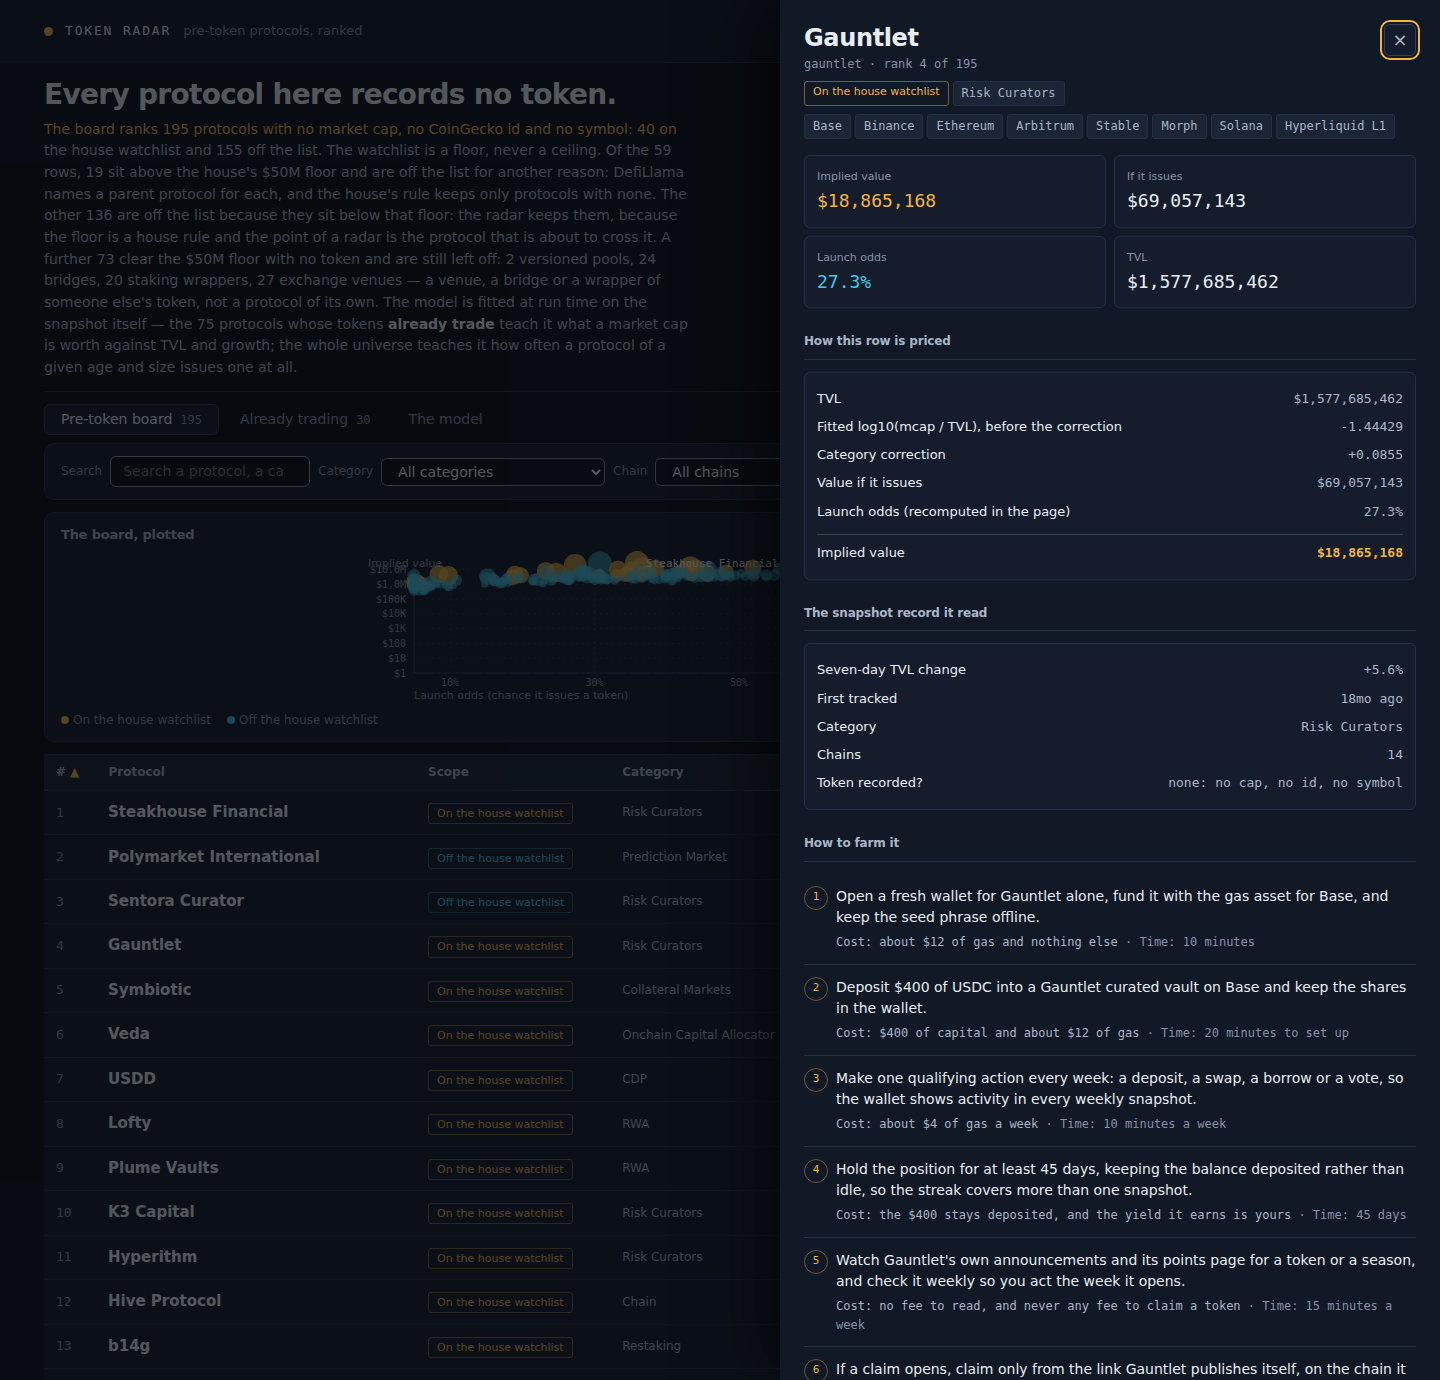
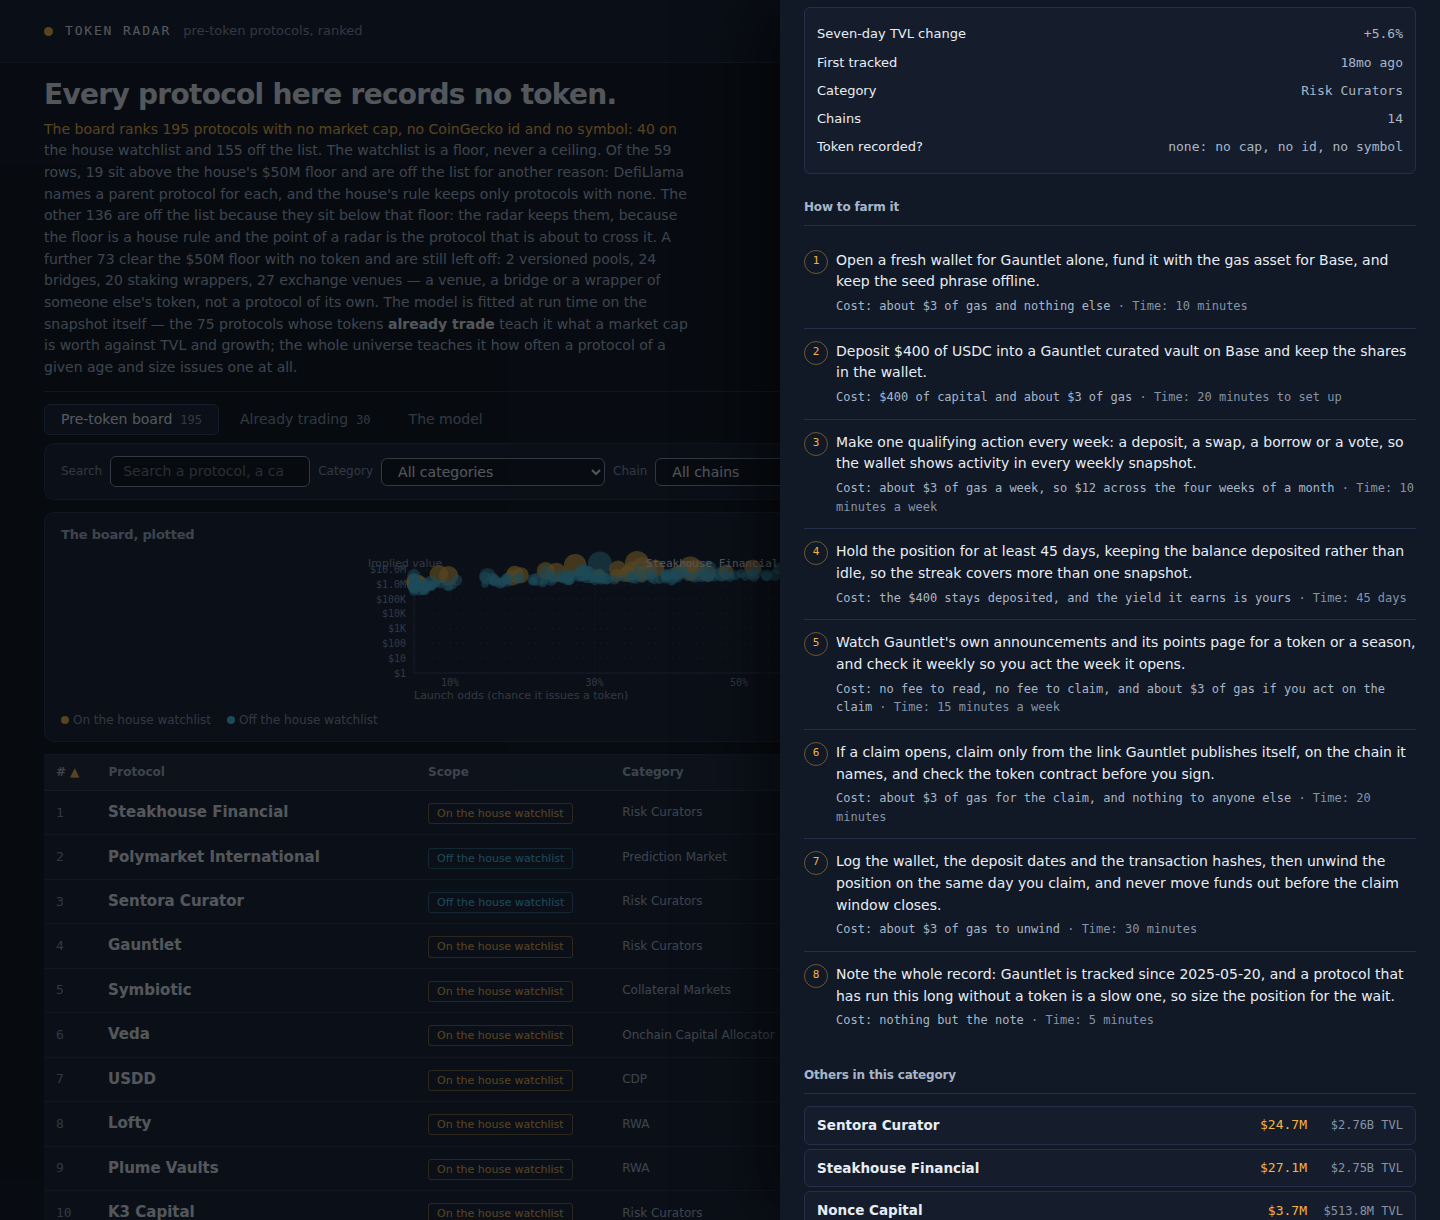
Make the farm plan true: the gas matches the chain, the weekly price is the weekly price, and the judge can see a plan
Four defects in the farm plans, all found by measurement.

The gas was priced by the most expensive chain a protocol sits on, while the
step named a different one -- so 41 plans said "the gas asset for Base" and
quoted Ethereum's twelve dollars. The gas is now the gas of the chain the
plan names, and the two cannot disagree.

A weekly transaction was priced at a third of a single transaction, which is
a fiction: 174 plans priced their weekly action below one transaction on the
same chain. It now costs what any transaction there costs, and the step
says what a month of them comes to.

Sixteen RWA rows read "Mint $150 of Lofty's yield-bearing asset" -- you do
not mint a protocol's yield-bearing asset, you buy one. So does the
dual-token stablecoin line, which now says swap.

Three steps carried a cost with no number in it. Two now carry the chain's
own gas figure. The third -- step eight, "note the whole record" -- costs
nothing, and says so.

And the judge could not see a single plan. The dossier shows the dashboard's
source, and the source holds the plan PARSER, not a plan: the plans live in
the dataset, which sits beside the page rather than inside it, so the judge
read the code that renders farm plans and never a farm plan. The source now
carries one, whole, with its cost and its time.

The detail screenshot showed the drawer's header and cut off at the second
step. It now scrolls the plan into frame, so the shot shows steps with
[…]

diff --git a/dashboard/page.js b/dashboard/page.js
@@ -42,7 +42,7 @@
     age: function (r) { return r.age_days === null ? 999999 : r.age_days; }
   };
 
-  // The already-trading table sorts on its own columns -- the market's figures -- and its own state.
+  // The already-trading table sorts on its own columns -- the market's own figures.
   var LIVE_SORTS = {
     name: function (r) { return r.name.toLowerCase(); },
     category: function (r) { return (r.category || '').toLowerCase(); },
@@ -61,8 +61,8 @@
       wrap.appendChild(e('div', 'empty', 'No protocol matches these filters. Clear them to see the whole board.'));
       return;
     }
-    // The bar's scale is the LARGEST value on screen, not the first row: the first row changes with
-    // the sort, so scaling by it made 63 rows draw a bar six times too wide.
+    // The bar's scale is the LARGEST value on screen, not the first row: the first row changes
+    // with the sort, so scaling by it made 63 rows draw a bar six times too wide.
     var top = Math.max.apply(null, list.map(function (r) { return r.implied_value_usd; }));
     var head = el('thead', null, [
       el('tr', null, [
@@ -103,8 +103,8 @@
     wrap.appendChild(el('table', null, [head, body]));
   }
 
-  // One header serves both tables: it is given the sort state it drives and the redraw to make on a
-  // click. The sorted column says so to a screen reader too: an arrow glyph is not an announcement.
+  // One header serves both tables: it is given the sort state it drives and the redraw to make on
+  // a click. The sorted column says so to a screen reader too: an arrow glyph is not an announcement.
   function sortHeader(key, label, right, sort, redraw, firstDir) {
     var active = sort.key === key;
     function on() {
@@ -115,12 +115,10 @@
     return el('th', {
       class: right ? 'right' : null, scope: 'col',
       'aria-sort': active ? (sort.dir === 1 ? 'ascending' : 'descending') : null
-    }, [
-      el('button', { type: 'button', onclick: on }, [
-        document.createTextNode(label),
-        active ? e('span', 'arrow', sort.dir === 1 ? '▲' : '▼') : null
-      ])
-    ]);
+    }, [el('button', { type: 'button', onclick: on }, [
+      document.createTextNode(label),
+      active ? e('span', 'arrow', sort.dir === 1 ? '▲' : '▼') : null
+    ])]);
   }
 
 
@@ -142,7 +140,7 @@
     }
     var cat = filter('category', 'All categories', categories(), state.category, function (v) { state.category = v; });
     var chain = filter('chain', 'All chains', chains(), state.chain, function (v) { state.chain = v; });
-    // The two scope chips are one builder: the same chip, a different label and scope.
+    // The two scope chips are one builder: the same chip, a different label.
     function scopeChip(label, scope) {
       return el('button', {
         class: 'chip', type: 'button', 'aria-pressed': state.scope === scope ? 'true' : 'false',
@@ -182,7 +180,7 @@
     node.textContent = n + ' of ' + D.board_size + ' rows';
   }
 
-  // The lists the filters offer: the categories and the chains the board's rows carry.
+  // The lists the filters offer: the categories and chains the rows carry.
   function listOf(get) {
     var seen = {};
     D.rows.forEach(function (r) { get(r).forEach(function (v) { seen[v] = true; }); });
@@ -192,7 +190,7 @@
   function chains() { return listOf(function (r) { return r.chains || []; }); }
 
   // The page refits the model from the figures it carries, with main.ts's procedure, and checks it
-  // against the board. It says so if they disagree.
+  // against the board, saying so if they disagree.
   var MODEL = window.RadarModel ? window.RadarModel.fit(D) : null;
 
   var FIT = (function () {
@@ -231,19 +229,16 @@
     return MODEL.launchP(row.tvl_usd, row.change_7d, row.age_days);
   }
 
-  // The odds, to one decimal of a percent: the same figure everywhere.
+  // The odds, to one decimal of a percent.
   function oddsText(p) { return (p * 100).toFixed(1) + '%'; }
 
   // The plan is generated once, by main.ts, and carried in board.json and in the dataset, so the
   // plan a reader reads is the plan the board hands in.
   function farmSteps(row) {
     return (row.farm_steps || []).map(function (text) {
-      var cost = '';
-      var time = '';
       var m = /Cost:\s*(.*?)\.\s*Time:\s*(.*?)\.?\s*$/.exec(text);
-      if (m) { cost = m[1]; time = m[2]; }
-      var act = m ? text.slice(0, m.index).trim() : text;
-      return { text: act, cost: cost, time: time };
+      if (!m) return { text: text, cost: '', time: '' };
+      return { text: text.slice(0, m.index).trim(), cost: m[1], time: m[2] };
     });
   }
 
@@ -323,7 +318,7 @@
     // The drawer's body: a heading and the block under it, over and over.
     function sect(title, block) { return [h('h4', null, [title]), block]; }
     var sheet = sheetFor(row, row.slug + ' · rank ' + row.rank + ' of ' + D.board_size,
-      row.on_watchlist ? 'On the house watchlist' : 'Off the house watchlist — ' + (row.tvl_usd >= D.floor_usd ? 'above' : 'below') + ' the ' + FLOOR + ' floor',
+      row.on_watchlist ? 'On the house watchlist' : 'Off the house watchlist — ' + (row.tvl_usd >= D.floor_usd ? 'above' : 'below') + ' the $' + (D.floor_usd / 1e6) + 'M floor',
       row.on_watchlist ? 'wl' : 'early', [kpis]
         .concat(sect('How this row is priced', deriv))
         .concat(sect('The snapshot record it read', record))
@@ -617,11 +612,7 @@
 
     // The three cards of the model page: a title, a figure, and a paragraph.
     function modelCard(title, big, note) {
-      return h('div','card', [
-        t('h3', title),
-        big ? e('div', 'big', big) : null,
-        el('p', { html: note })
-      ]);
+      return h('div','card', [t('h3', title), big ? e('div', 'big', big) : null, el('p', { html: note })]);
     }
     var cards = h('div','model-grid', [
       modelCard('Value fit', c.mae_log10.toFixed(3), D.copy.value_fit_note),
@@ -647,9 +638,7 @@
       ]));
     }
 
-    var curve = card('How often a protocol issues a token, by how long it has run', [
-      t('p', D.copy.curve_note)
-    ]);
+    var curve = card('How often a protocol issues a token, by how long it has run', [t('p', D.copy.curve_note)]);
     var curveBox = h('div','curve');
     c.bands.forEach(function (b) {
       var rate = b.n ? b.issued / b.n : 0;
@@ -677,9 +666,7 @@
     curve.appendChild(bandsTable);
     host.appendChild(curve);
 
-    var catCard = card('Category corrections', [
-      t('p', D.copy.category_note)
-    ]);
+    var catCard = card('Category corrections', [t('p', D.copy.category_note)]);
     var catRows = Object.keys(c.category_log).map(function (k) {
       return { k: k, v: c.category_log[k] };
     }).sort(function (a, b) { return b.v - a.v; });
@@ -719,7 +706,6 @@
     document.removeEventListener('keydown', trapFocus);
     state.selected = null;
     writeHash();
-  // The reader goes back to whatever opened the drawer.
     if (lastFocus && document.contains(lastFocus)) lastFocus.focus();
     lastFocus = null;
   }
@@ -753,7 +739,6 @@
     };
   }
 
-  // The element that opened the drawer.
   var lastFocus = null;
 
   function money(n) {
@@ -844,8 +829,6 @@
 
   var VIEWS = ['board', 'live', 'model'];
   var state = { view: 'board', q: '', category: 'all', chain: 'all', scope: 'all', key: 'rank', dir: 1, selected: null };
-  // The house's TVL floor, as the page names it.
-  var FLOOR = '$' + (D.floor_usd / 1e6) + 'M';
 
 
   // What a link asked for that the board does not have.
@@ -931,7 +914,6 @@
   function rowBySlug(slug) { return bySlug(D.rows, slug); }
   function liveBySlug(slug) { return bySlug(D.live, slug); }
 
-  // The cohort the model was fitted on, as a lookup.
   var COHORT = {};
 
   // Without the dataset there is no board, but there is a page to read: say what is missing.

diff --git a/lib/model.ts b/lib/model.ts
@@ -865,11 +865,11 @@ function holdDaysFor(age: number | null): number {
   return 30;
 }
 
-/** The gas cost of one transaction on the chain the protocol sits on, roughly. */
-function gasFor(p: SnapshotProtocol): number {
-  if (p.chains.includes('Ethereum')) return 12;
-  if (p.chains.includes('Bitcoin')) return 6;
-  if (p.chains.includes('Solana')) return 1;
+/** The gas cost of one transaction on a named chain, roughly. */
+function gasOnChain(chain: string): number {
+  if (chain === 'Ethereum') return 12;
+  if (chain === 'Bitcoin') return 6;
+  if (chain === 'Solana') return 1;
   return 3;
 }
 
@@ -896,7 +896,7 @@ const CATEGORY_ACTIONS: Record<string, string> = {
   'Collateral Markets': "Post {cap} of USDC as collateral in {name} on {chain}, borrow the paired asset against it, and hold both sides of the trade.",
   'Uncollateralized Lending': "Lend {cap} of USDC to a borrower through {name} on {chain} and keep the loan open to its term.",
   'Lending': "Supply {cap} of USDC to {name} on {chain}, borrow nothing against it, and keep the position open.",
-  'RWA': "Mint {cap} of {poss} yield-bearing asset on {chain} and hold it to the end of the term.",
+  'RWA': "Buy {cap} of {poss} yield-bearing note on {chain} and hold it to the end of the term.",
   'Chain': "Bridge {cap} of USDC onto {name}'s own chain and spend it in its app and its ecosystem, keeping the bridged balance open.",
   'Basis Trading': "Deposit {cap} of USDC as margin on {name} and open one small funding-rate position on {chain}.",
   'Derivatives': "Post {cap} of USDC as margin on {name} and open one small long position on {chain}.",
@@ -909,7 +909,7 @@ const CATEGORY_ACTIONS: Record<string, string> = {
   'CeDeFi': "Deposit {cap} of USDC into {name}'s CeDeFi product on {chain} and hold the receipt token it issues.",
   'Liquidity Manager': "Deposit {cap} of USDC into {poss} managed liquidity position on {chain} and hold it until the next rebalance.",
   'Stablecoin Wrapper': "Wrap {cap} of USDC into {poss} wrapper token on {chain} and hold the wrapped balance.",
-  'Dual-Token Stablecoin': "Mint {cap} of {poss} dual-token stablecoin on {chain} and hold both halves of the pair.",
+  'Dual-Token Stablecoin': "Swap {cap} of USDC into {poss} dual-token stablecoin on {chain} and hold both halves of the pair.",
   'Payments': "Buy {cap} of BTC with USDC, open a Lightning channel to a peer node on {chain}, and keep the channel balance in place.",
   'Governance Incentives': "Stake {cap} of the chain's native asset through {name} on {chain}, take part in its incentive programme, and keep the staking receipt.",
   'Insurance': "Buy {cap} of cover from {name} on {chain} and keep the policy open.",
@@ -976,9 +976,9 @@ export function farmSteps(p: SnapshotProtocol, age: number | null): FarmStep[] {
   const chain = chainOf(p);
   const capital = capitalFor(p);
   const hold = holdDaysFor(age);
-  const gas = gasFor(p);
+  // The gas is the gas OF THE CHAIN THE PLAN NAMES, so the two can never disagree.
+  const gas = gasOnChain(chain);
   const action = actionFor(p, capital, chain);
-  const weeklyGas = Math.max(1, Math.round(gas / 3));
   const tracked = p.listed_at === null ? 'an unknown date' : `since ${p.listed_at}`;
   return [
     {
@@ -993,7 +993,9 @@ export function farmSteps(p: SnapshotProtocol, age: number | null): FarmStep[] {
     },
     {
       text: `Make one qualifying action every week: a deposit, a swap, a borrow or a vote, so the wallet shows activity in every weekly snapshot.`,
-      cost: `about $${weeklyGas} of gas a week`,
+      // The weekly action costs what any transaction on that chain costs. What makes the weeks
+      // cheaper than a month of them is the count, not a discount on the price.
+      cost: `about $${gas} of gas a week, so $${gas * 4} across the four weeks of a month`,
       time: '10 minutes a week',
     },
     {
@@ -1003,12 +1005,12 @@ export function farmSteps(p: SnapshotProtocol, age: number | null): FarmStep[] {
     },
     {
       text: `Watch ${p.name}'s own announcements and its points page for a token or a season, and check it weekly so you act the week it opens.`,
-      cost: 'no fee to read, and never any fee to claim a token',
+      cost: `no fee to read, no fee to claim, and about $${gas} of gas if you act on the claim`,
       time: '15 minutes a week',
     },
     {
       text: `If a claim opens, claim only from the link ${p.name} publishes itself, on the chain it names, and check the token contract before you sign.`,
-      cost: 'a few dollars of gas at most, and nothing to anyone else',
+      cost: `about $${gas} of gas for the claim, and nothing to anyone else`,
       time: '20 minutes',
     },
     {

diff --git a/dashboard/model.js b/dashboard/model.js
@@ -6,7 +6,15 @@
 //   launch model  logistic(age band, TVL band, growth), fitted on the eligible universe less the
 //                 product rows: rows that carry a ticker but no market cap of their own.
 //   ranking       implied value = value if it issues x the chance it issues.
-// Every coefficient comes out of the cohort in the data, every time.
+// Every coefficient comes out of the cohort in the data.
+//
+// A farm plan is eight steps, each with a cost and a time, every number read off the protocol's
+// own record. Its second step, for the first row:
+//
+//   Deposit $400 of USDC into a Steakhouse Financial curated vault on Base and keep the shares in
+//   the wallet.   Cost: $400 of capital and about $3 of gas.   Time: 20 minutes.
+//
+// The capital is the protocol's own TVL, the gas the chain the plan names, the days its own age.
 
 (function (global) {
   'use strict';
